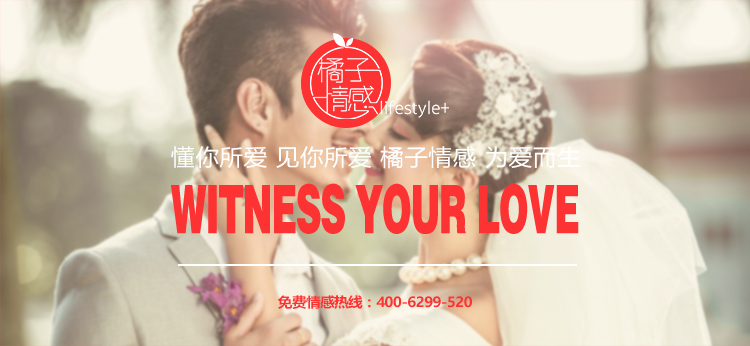
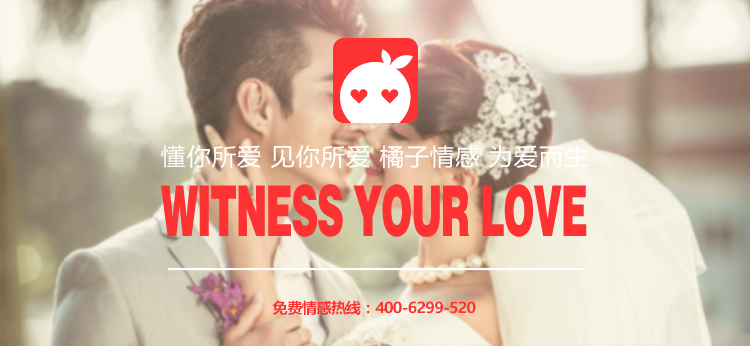
为【定制爱情】页面每个模块添加标题

diff --git a/js/smistress/spa.smistress.js b/js/smistress/spa.smistress.js
@@ -15,24 +15,73 @@
 spa.smistress = (function () {
   var
     configMap = {
-      main_html : String() + '分离小三页面'
+      main_html : String()
+        + '<div class="smistress-state"></div>'
+        + '<div class="smistress-reason"></div>'
+        + '<div class="smistress-method"></div>'
+        + '<div class="smistress-advantage"></div>'
+        + '<div class="smistress-kind"></div>'
+        + '<div class="smistress-service"></div>'
+        + '<div class="smistress-example"></div>'
+        + '<div class="smistress-mentor"></div>'
+        + '<div class="smistress-progress"></div>'
     },
-    stateMap = { $smistress : null },
+    stateMap = { $container : null, $smistress : null },
     jqueryMap = {},
-    setJqueryMap, initModule;
+    setJqueryMap, changePrefaceImg, loadModule, initModule;
 
   setJqueryMap = function () {
-    var $smistress = stateMap.$smistress;
+    var
+      $container = stateMap.$container,
+      $smistress = stateMap.$smistress;
+
     jqueryMap = {
-      $smistress : $smistress
+      $container : $container,
+      $smistress : $smistress,
+      $state     : $smistress.find('.smistress-state'),
+      $reason    : $smistress.find('.smistress-reason'),
+      $method    : $smistress.find('.smistress-method'),
+      $advantage : $smistress.find('.smistress-advantage'),
+      $kind      : $smistress.find('.smistress-kind'),
+      $service   : $smistress.find('.smistress-service'),
+      $example   : $smistress.find('.smistress-example'),
+      $mentor    : $smistress.find('.smistress-mentor'),
+      $progress  : $smistress.find('.smistress-progress')
     };
   };
 
-  initModule = function ($smistress) {
+  // Start : changePrefaceImg()
+  // 功能  : 动态更换头图
+  //
+  changePrefaceImg = function () {
+    var preface_img = jqueryMap.$container.find('.spa-preface img');
+    preface_img.attr('src', 'images/smistress/preface.png');
+  };
+  // End : changePrefaceImg()
+
+  loadModule = function () {
+    $('title').text('橘子情感 - 分离小三');
+    changePrefaceImg();
+
+    // 加载模块
+    spa.smistress.state.initModule(jqueryMap.$state);
+    spa.smistress.reason.initModule(jqueryMap.$reason);
+    spa.smistress.method.initModule(jqueryMap.$method);
+    spa.smistress.advantage.initModule(jqueryMap.$advantage);
+    spa.smistress.kind.initModule(jqueryMap.$kind);
+    spa.smistress.service.initModule(jqueryMap.$service);
+    spa.smistress.example.initModule(jqueryMap.$example);
+    spa.smistress.mentor.initModule(jqueryMap.$mentor);
+    spa.smistress.progress.initModule(jqueryMap.$progress);
+  };
+
+  initModule = function ($container, $smistress) {
+    stateMap.$container = $container;
     stateMap.$smistress = $smistress;
     $smistress.html(configMap.main_html);
-    $('title').text('橘子情感 - 分离小三');
+
     setJqueryMap();
+    loadModule();
   };
 
   return { initModule : initModule };

diff --git a/js/spa.shell.js b/js/spa.shell.js
@@ -128,22 +128,22 @@ spa.shell = (function () {
           spa.smarriage.initModule(jqueryMap.$container, jqueryMap.$main);
           break;
         case 'separate_mistress' :  // 分离小三
-          spa.smistress.initModule(jqueryMap.$main);
+          spa.smistress.initModule(jqueryMap.$container, jqueryMap.$main);
           break;
         case 'custom_love' :        // 定制爱情
-          spa.clove.initModule(jqueryMap.$main);
+          spa.clove.initModule(jqueryMap.$container, jqueryMap.$main);
           break;
         case 'emotion_forum' :      // 情感论坛
-          spa.forum.initModule(jqueryMap.$main);
+          spa.forum.initModule(jqueryMap.$container, jqueryMap.$main);
           break;
         case 'mentor_team' :        // 权威专家
-          spa.mentor.initModule(jqueryMap.$main);
+          spa.mentor.initModule(jqueryMap.$container, jqueryMap.$main);
           break;
         case 'service_intro' :      // 服务介绍
-          spa.service.initModule(jqueryMap.$main);
+          spa.service.initModule(jqueryMap.$container, jqueryMap.$main);
           break;
         case 'about_us' :           // 关于我们
-          spa.about.initModule(jqueryMap.$main);
+          spa.about.initModule(jqueryMap.$container, jqueryMap.$main);
           break;
         default:                    // 回到首页
           $.uriAnchor.setAnchor({});

diff --git a/js/spa.about.js b/js/spa.about.js
@@ -17,17 +17,37 @@ spa.about = (function () {
     configMap = {
       main_html : String() + '关于我们页面'
     },
-    stateMap = { $about: null },
+    stateMap = { $container : null, $about: null },
     jqueryMap = {},
-    setJqueryMap, initModule;
+    setJqueryMap, loadModule, initModule;
 
-  setJqueryMap = function () {};
+  setJqueryMap = function () {
+    var
+      $container = stateMap.$container,
+      $about     = stateMap.$about;
 
-  initModule = function ($about) {
-    stateMap.$about = $about;
-    $about.html(configMap.main_html);
+    jqueryMap = {
+      $container : $container,
+      $about     : $about
+    };
+  };
+
+  loadModule = function () {
+    var preface_img = jqueryMap.$container.find('.spa-preface img');
+
     $('title').text('橘子情感 - 关于我们');
+    preface_img.attr('src', 'images/about/preface.png');
+
+    // 加载模块
+  };
+
+  initModule = function ($container, $about) {
+    stateMap.$container = $container;
+    stateMap.$about     = $about;
+    $about.html(configMap.main_html);
+
     setJqueryMap();
+    loadModule();
   };
 
   return { initModule : initModule };

diff --git a/js/spa.mentor.js b/js/spa.mentor.js
@@ -17,22 +17,32 @@ spa.mentor = (function () {
     configMap = {
       main_html : String() + '权威专家页面'
     },
-    stateMap = { $mentor : null },
+    stateMap = { $container : null, $mentor : null },
     jqueryMap = {},
-    setJqueryMap, initModule;
+    setJqueryMap, loadModule, initModule;
 
   setJqueryMap = function () {
-    var $mentor = stateMap.$mentor;
+    var
+      $container = stateMap.$container,
+      $mentor    = stateMap.$mentor;
+
     jqueryMap = {
-      $mentor : $mentor
+      $container : $container,
+      $mentor    : $mentor
     };
   };
 
-  initModule = function ($mentor) {
-    stateMap.$mentor = $mentor;
-    $mentor.html(configMap.main_html);
+  loadModule = function () {
     $('title').text('橘子情感 - 权威专家');
+  };
+
+  initModule = function ($container, $mentor) {
+    stateMap.$container = $container;
+    stateMap.$mentor    = $mentor;
+    $mentor.html(configMap.main_html);
+
     setJqueryMap();
+    loadModule();
   };
 
   return { initModule : initModule };

diff --git a/js/spa.forum.js b/js/spa.forum.js
@@ -17,22 +17,31 @@ spa.forum = (function () {
     configMap = {
       main_html : String() + '情感论坛页面'
     },
-    stateMap = { $forum : null },
+    stateMap = { $container : null, $forum : null },
     jqueryMap = {},
-    setJqueryMap, initModule;
+    setJqueryMap, loadModule, initModule;
 
   setJqueryMap = function () {
-    var $forum = stateMap.$forum;
+    var
+      $container = stateMap.$container,
+      $forum     = stateMap.$forum;
     jqueryMap = {
-      $forum : $forum
+      $container : $container,
+      $forum     : $forum
     };
   };
 
-  initModule = function ($forum) {
-    stateMap.$forum = $forum;
-    $forum.html(configMap.main_html);
+  loadModule = function () {
     $('title').text('橘子情感 - 情感论坛');
+  };
+
+  initModule = function ($container, $forum) {
+    stateMap.$container = $container;
+    stateMap.$forum     = $forum;
+    $forum.html(configMap.main_html);
+    
     setJqueryMap();
+    loadModule();
   };
 
   return { initModule : initModule };

diff --git a/js/spa.clove.js b/js/spa.clove.js
@@ -17,21 +17,29 @@ spa.clove = (function () {
     configMap = {
       main_html : String() +'定制爱情页面'
     },
-    stateMap = { $clove : null },
+    stateMap = { $container : null, $clove : null },
     jqueryMap = {},
-    setJqueryMap, initModule;
+    setJqueryMap, loadModule, initModule;
 
   setJqueryMap = function () {
-    var $clove = stateMap.$clove;
+    var
+      $container = stateMap.$container,
+      $clove     = stateMap.$clove;
     jqueryMap = {
-      $clove : $clove
+      $container : $container,
+      $clove     : $clove
     };
   };
 
-  initModule = function ($clove) {
-    stateMap.$clove = $clove;
-    $clove.html(configMap.main_html);
+  loadModule = function () {
     $('title').text('橘子情感 - 定制爱情');
+  };
+
+  initModule = function ($container, $clove) {
+    stateMap.$container = $container;
+    stateMap.$clove     = $clove;
+    $clove.html(configMap.main_html);
+
     setJqueryMap();
   };
 
